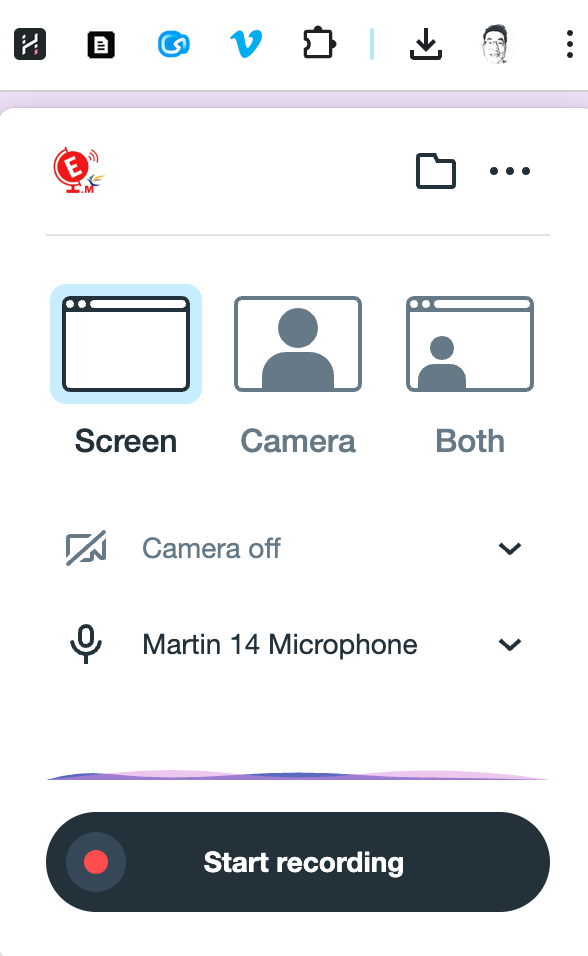
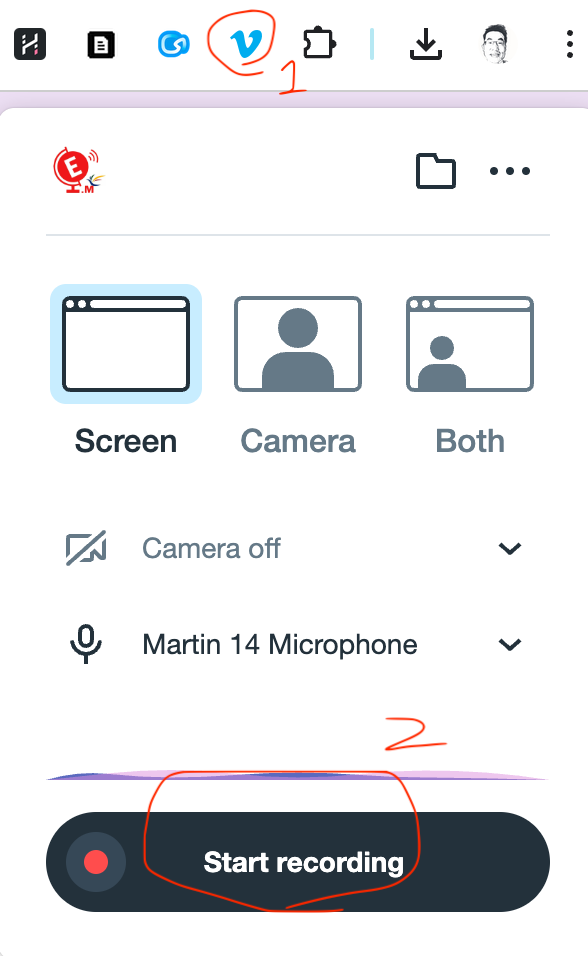
update week15

diff --git a/lecture notes/week15.md b/lecture notes/week15.md
@@ -15,18 +15,39 @@
   3. 之後要錄桌面只需點擊此擴充圖示，選擇錄製桌面。  
     3.1 點擊擴充圖示，使用GMail登入或加入Vimeo。
     ![](../img/2024-05-29-13-50-09.png)
-    3.2 要點擊一次擴充圖示，選擇錄製桌面
+    3.2 再點擊一次擴充圖示，選擇錄製桌面
     ![](../img/2024-05-29-13-52-59.png)
     ![](../img/2024-05-29-13-53-57.png)
   4. 錄製完成後，點擊停止錄製，等待上傳至Vimeo完成後，點擊分享，複製連結。
   ![](../img/2024-05-29-13-57-22.png)
 
 
-  此連結會長得像： https://vimeo.com/951397788/f95656f948?share=copy  這是你要繳交的影片連結。
+  > 此連結會長得像： https://vimeo.com/951397788/f95656f948?share=copy  這是你要繳交的影片連結。
 
 
 ## 如何上傳程式及ChatGPT對話記錄至GitHub
 
-  1. 使用GitHub Desktop，將你的專案上傳至GitHub。
-  2. 將ChatGPT對話記錄及R語言程式碼上傳至GitHub。
-  3. 線上繳交你的GitHub專案連結。
+### 1. Fork GitHub
+
+開啟 <https://github.com/tpemartin/112-2-R-final-project>
+  ![](../img/2024-05-29-14-04-08.png)  
+  ![](../img/2024-05-29-14-05-02.png)
+
+> 你需要繳交你fork回去的期末專題連結：`https://github.com/{你的帳號}/112-2-R-final-project`
+
+### 2. 取得ChatGPT對話記錄連結
+
+![](../img/2024-05-29-14-11-45.png)
+![](../img/2024-05-29-14-12-10.png)
+
+在RStudio開一個新檔案，把連結一一貼上，並存檔。
+
+![](../img/2024-05-29-14-20-42.png)
+
+### 3. 下載RStudio程式, 資料及ChatGPT對話記錄檔
+
+![](../img/2024-05-29-14-17-28.png)
+
+### 4. 上傳至GitHub
+
+![](../img/2024-05-29-14-18-10.png)
